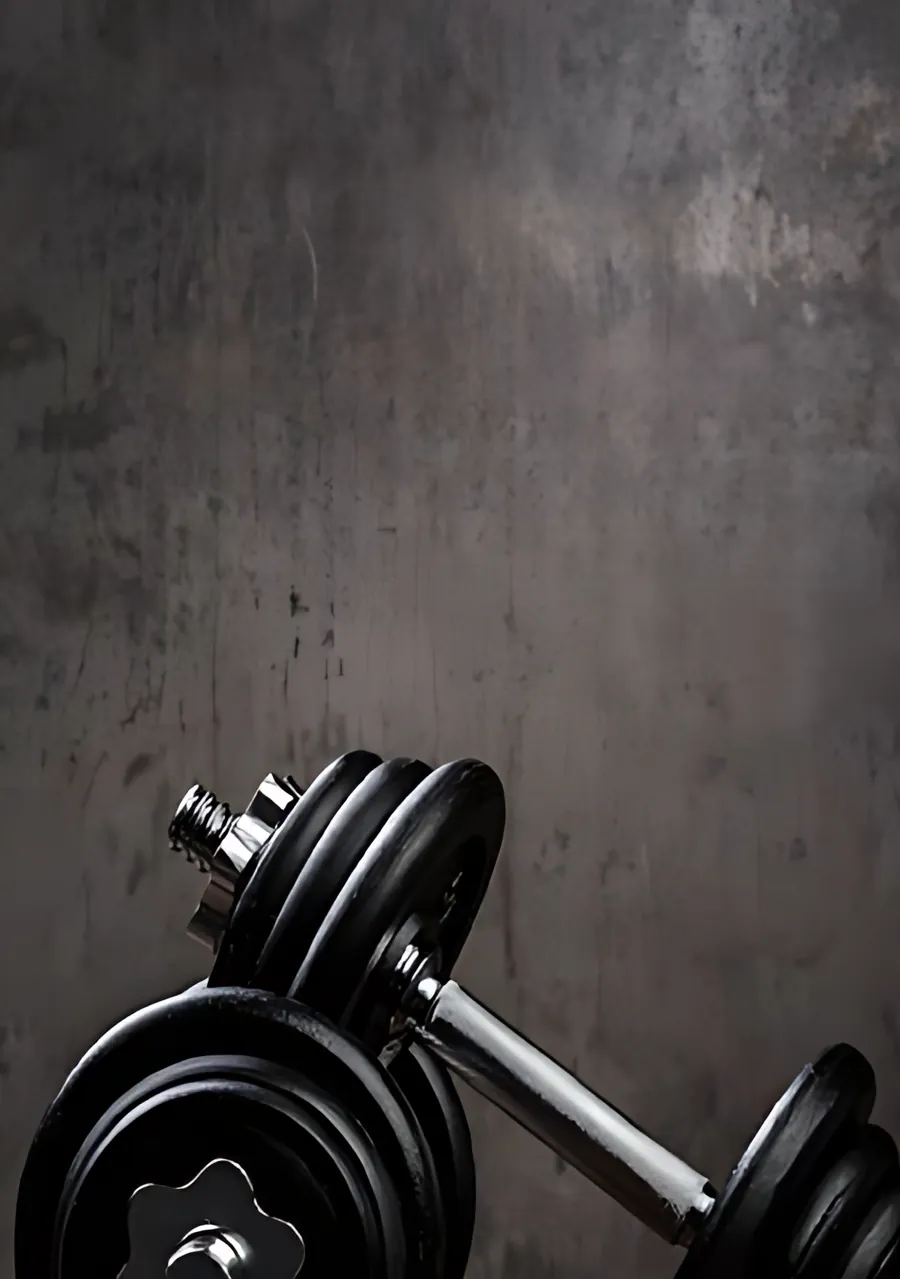
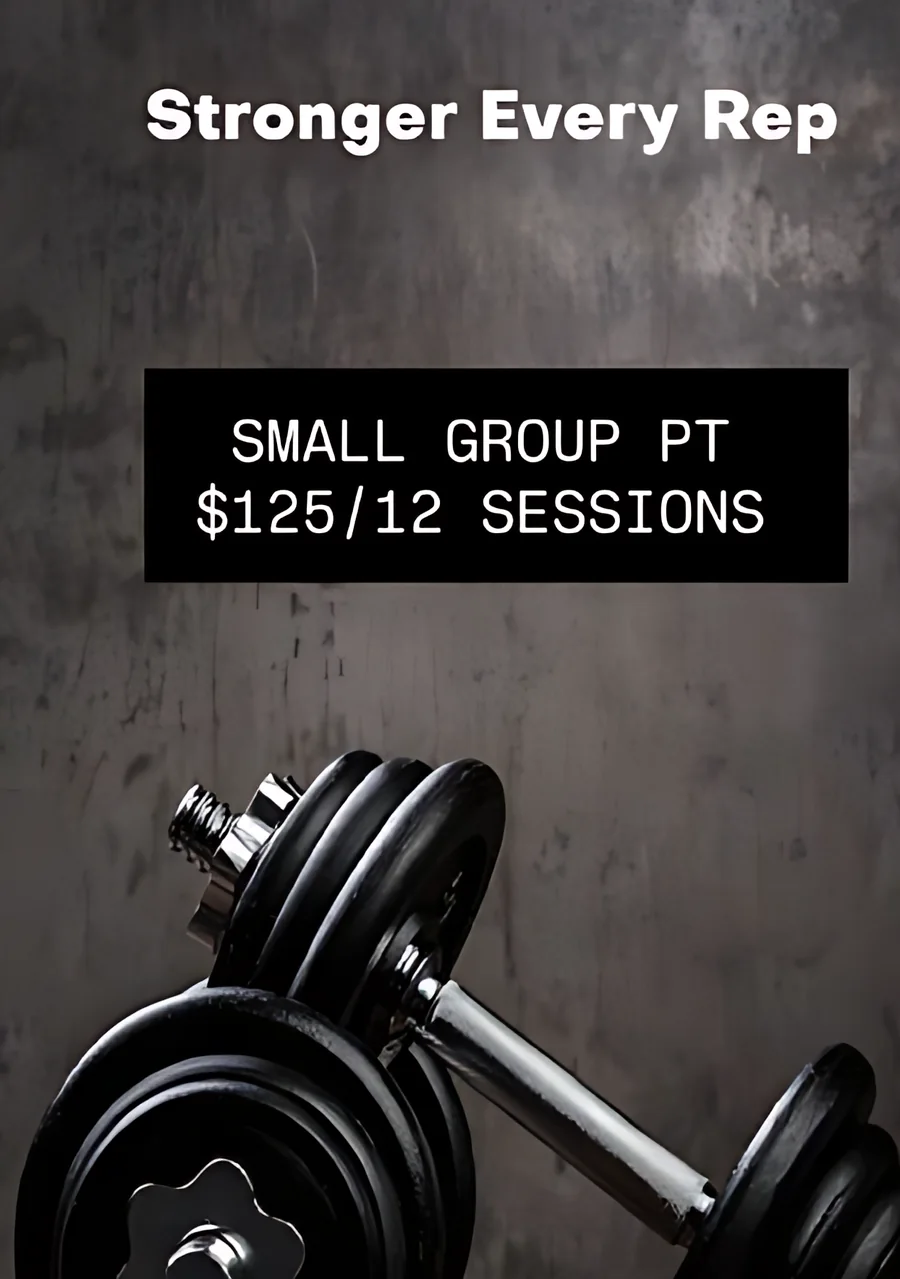
Restore the small-group graphic with its text
At the client's request the small-group image is the original graphic
again — "Stronger Every Rep" and the "Small Group PT $125/12 sessions"
box included — upscaled 4x but otherwise unchanged. The panel now uses
the graphic's own aspect ratio so neither the title nor the price box
is ever cropped. Its price matches the $125 shown elsewhere on the page.

Claude-Session: https://claude.ai/code/session_01KCdKVUrDsotGBNM8Rad54E

Changed region(s): [[0.1556, 0.2744, 0.9644, 0.4574], [0.1556, 0.061, 0.7467, 0.122], [0.7778, 0.061, 0.9333, 0.122]]

diff --git a/index.html b/index.html
@@ -228,7 +228,7 @@
       <div class="item">
         <button class="row" aria-expanded="false" aria-controls="p5"><span class="n">03</span><span class="t">Small-Group Personal Training</span><span class="pm" aria-hidden="true">+</span></button>
         <div class="panel" id="p5"><div><div class="body">
-          <div class="photo photo--tall photo--low"><img src="/assets/img/smallgroup.webp?v=20260928" alt="Dumbbells loaded with iron plates" width="900" height="1279" loading="lazy"></div>
+          <div class="photo photo--tall photo--sg"><img src="/assets/img/smallgroup.webp?v=20260929" alt="Stronger Every Rep — Small Group PT, $125 for 12 sessions" width="900" height="1279" loading="lazy"></div>
           <div>
             <p>Coached strength training in a small group — the most efficient way to build muscle and lose fat, at a lower price per session.</p>
             <ul class="ticks">

diff --git a/assets/css/main.css b/assets/css/main.css
@@ -198,7 +198,7 @@ h1.big em{font-style:normal;color:var(--brand)}
 .body .photo.photo--tall{height:auto;aspect-ratio:3/4}   /* portrait panels: show the whole person, not a slice */
 .body .photo--tall img{object-position:50% 12%}
 .body .photo--coach img{object-position:50% 0%}
-.body .photo--low img{object-position:50% 100%}
+.body .photo.photo--sg{aspect-ratio:311/442}   /* the graphic's own shape, so its title and price box are never cropped */
 .body p{font-size:15.5px;line-height:1.65;max-width:52ch}
 .ticks{margin-top:20px;display:flex;flex-direction:column;gap:11px}
 .ticks li{display:flex;gap:11px;align-items:flex-start;font-size:15px;color:#D4D9E0}

diff --git a/assets/img/README.md b/assets/img/README.md
@@ -9,7 +9,7 @@
 | `nutrition.webp` | Nutrition Coaching. From the clinic's carbs post, with its text box removed. |
 | `online.webp` | Online Coaching. Side-profile check-in photo, upscaled. |
 | `hero.webp` | Hero, right side (a banner above the headline on phones). From the clinic's "Built in silence" poster, with the headline, logo and tagline removed by AI inpainting, then upscaled. |
-| `smallgroup.webp` | Small-Group Personal Training. From the "Stronger Every Rep" graphic, with the title and price box removed. |
+| `smallgroup.webp` | Small-Group Personal Training. The clinic's "Stronger Every Rep — Small Group PT $125/12 sessions" graphic, unchanged apart from upscaling. Shown uncropped. |
 | `room.webp` | Cover of the gym-tour card in "Why people stay". The brass "Iron Oak Fitness" plaque (another gym's name) was painted out. |
 | `dumbbells-bw.webp` | Background of the closing "Built in silence." banner. |
 | `og.jpg` | The preview image shown when the site link is shared (WhatsApp, Instagram, Facebook). |
